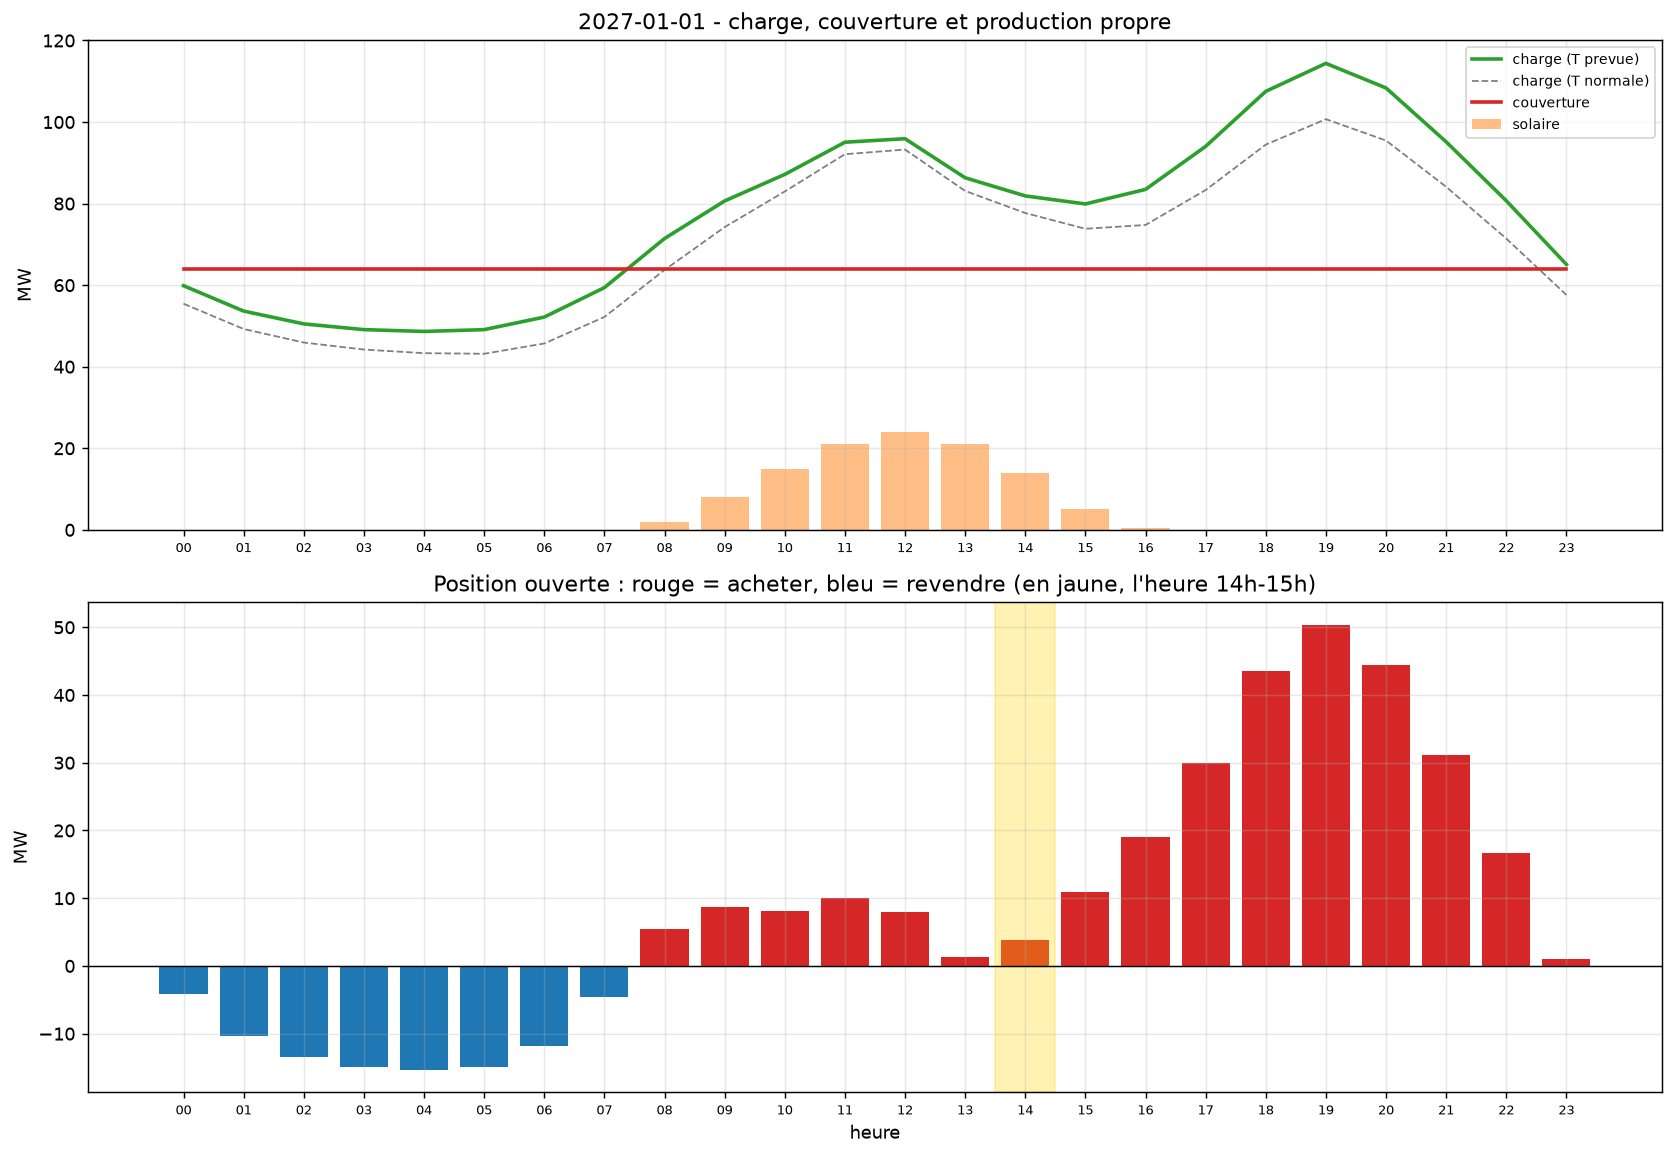
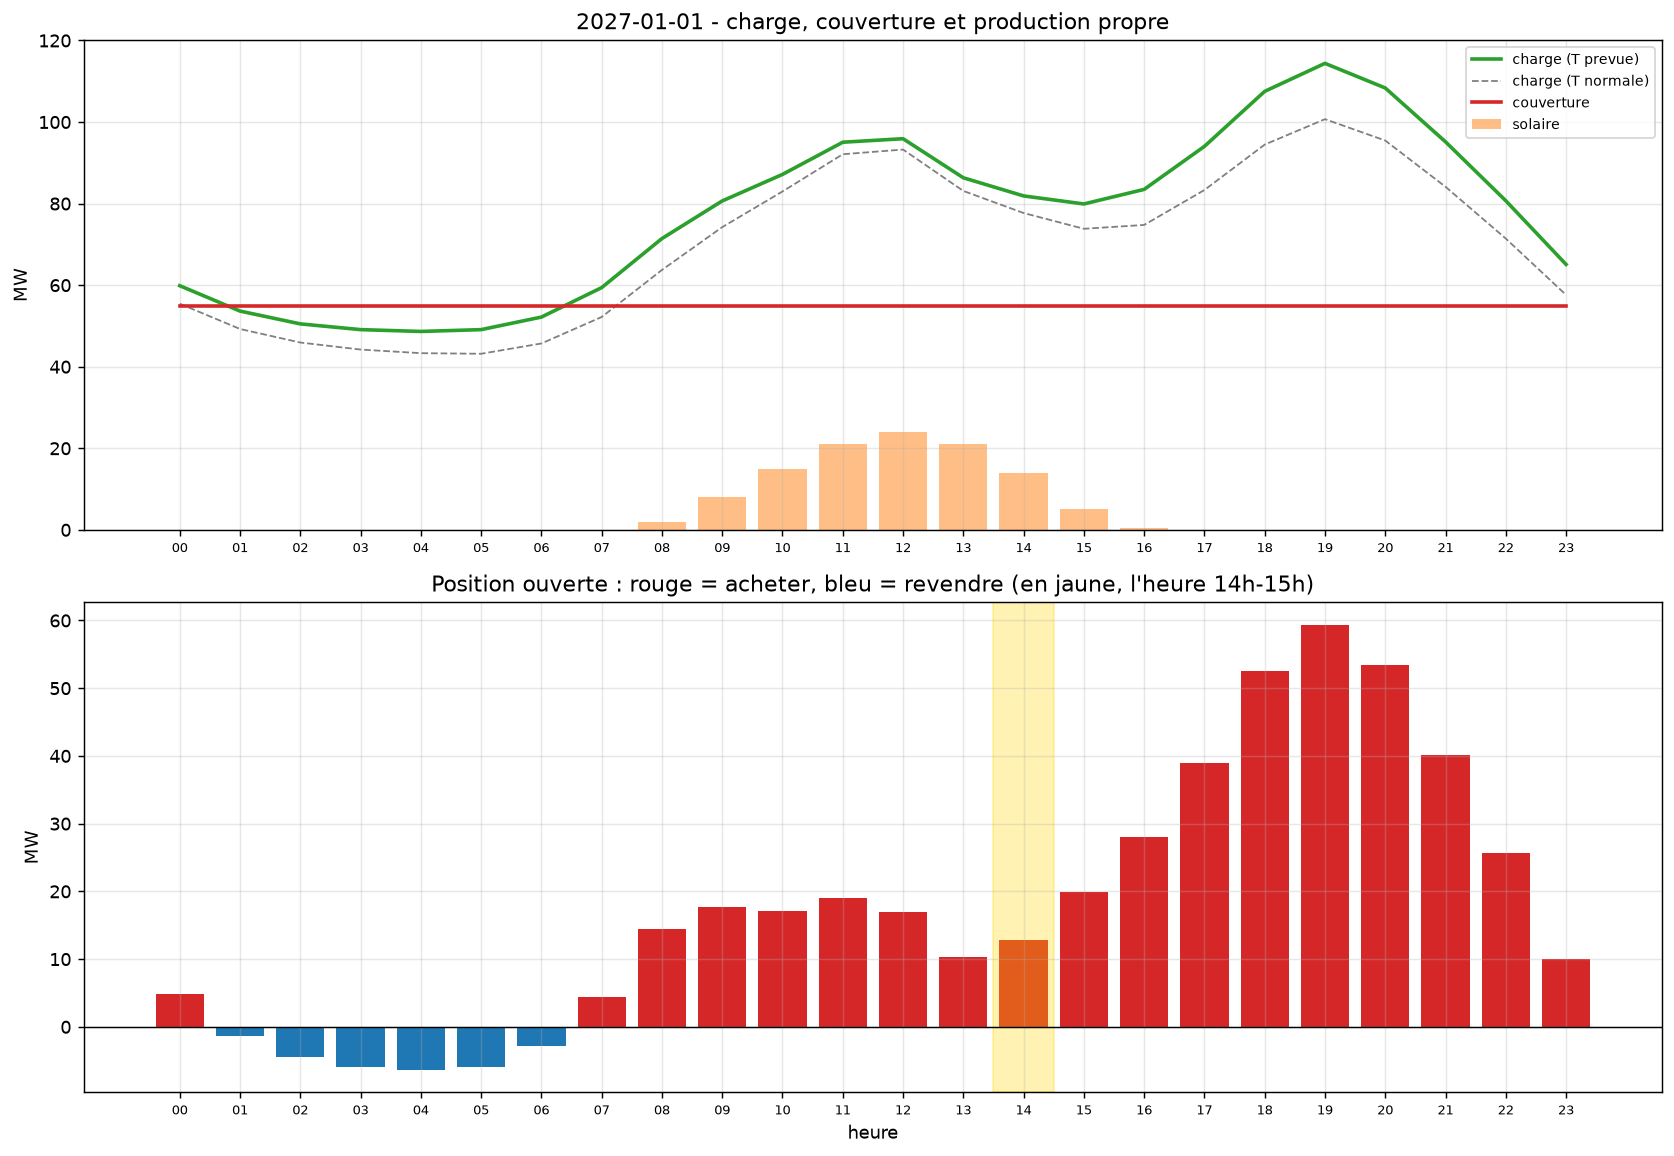
Corriger l'ordre day-ahead : il ignorait le reequilibrage du T3
Le reequilibrage de l'objectif 1 etait calcule, affiche et exporte, mais jamais
reinjecte dans la couverture livree le 1er janvier. journee() lisait POSITION,
c'est-a-dire les seuls achats du T1 et du T2. Les 24 ordres etaient donc
dimensionnes sur 64,00 MW de couverture alors qu'on venait de vendre 8,99 MW de
Q1-27 : on vendait un produit au T3 et on continuait de compter dessus le
lendemain.

position_apres_reequilibrage() applique les ordres du T3 a la position detenue,
et journee() prend cette position en argument. Le script affiche les deux
valeurs cote a cote pour que l'ecart soit visible.

Effet sur le livrable :
  couverture livree    64,00 -> 55,01 MW
  heure 14h-15h        +3,89 -> +12,88 MWh a acheter
  sur la journee       292,6 -> 445,7 MWh a acheter, 89,6 -> 26,9 a revendre
  heures longues       8 -> 5 (minuit bascule en short)

Claude-Session: https://claude.ai/code/session_01RNL6Jhn5rE1VVnxEKFCFYa

diff --git a/MarketGame/Version Light/t3_spot.py b/MarketGame/Version Light/t3_spot.py
@@ -127,7 +127,22 @@ def objectif_1(d, vq):
     return action
 
 
-def journee(base):
+def position_apres_reequilibrage(action):
+    """La couverture reellement livree en 2027, APRES les ordres passes au T3.
+
+    Le reequilibrage de l'objectif 1 n'est pas un calcul d'affichage : s'il est
+    execute, il change ce qui sera livre le 1er janvier. L'oublier revient a
+    dimensionner l'ordre day-ahead sur une couverture qu'on vient de vendre.
+    """
+    apres = dict(POSITION)
+    for trimestre, r in action.iterrows():
+        cle = (trimestre, "Base")
+        mw, jalon = apres.get(cle, (0.0, "T3"))
+        apres[cle] = (mw + r["a traiter MW"], jalon)
+    return apres
+
+
+def journee(base, couverture=None):
     """Charge du 1er janvier avec la temperature prevue et les effectifs du T3."""
     cible = calendrier.projeter(base, 2027)
     j = cible[np.asarray(cible.index.date) == pd.Timestamp(JOUR).date()].copy()
@@ -138,8 +153,9 @@ def journee(base):
     h = pd.DataFrame({"charge MW": j["P_dyn_totale_kW"].resample("h").mean() / 1000,
                       "charge normale MW": j["P_totale_kW"].resample("h").mean() / 1000})
     h["solaire MW"] = SOLAIRE
+    detenu = POSITION if couverture is None else couverture
     h["couverture MW"] = sum(mw * cv.fenetre(p, n, h.index)
-                             for (p, n), (mw, _) in POSITION.items())
+                             for (p, n), (mw, _) in detenu.items())
     h["position MW"] = h["charge MW"] - h["solaire MW"] - h["couverture MW"]
     h["sens"] = np.where(h["position MW"] > 0, "SHORT (acheter)", "LONG (revendre)")
     return j, h
@@ -239,7 +255,14 @@ def main():
     # T3 - POINTS 2 ET 3 : DEMANDE NETTE => OPEN POSITIONS, PUIS HEDGING
     # ==========================================================================
     action = objectif_1(d, vq.to_dict())
-    j, h = journee(base)
+    apres = position_apres_reequilibrage(action)
+    j, h = journee(base, apres)
+    j_avant, h_avant = journee(base)            # pour montrer ce que le T3 a change
+    print(f"\n  couverture livree le {pd.Timestamp(JOUR):%d/%m} :"
+          f" {h_avant['couverture MW'].iloc[0]:.2f} MW avant le reequilibrage,"
+          f" {h['couverture MW'].iloc[0]:.2f} MW apres.")
+    print("  L'ordre day-ahead est dimensionne sur la couverture APRES :"
+          " vendre du Q1 au T3, c'est en avoir moins le 1er janvier.")
 
     aff = h.copy()
     aff.index = [f"{x:%H:%M}" for x in aff.index]
